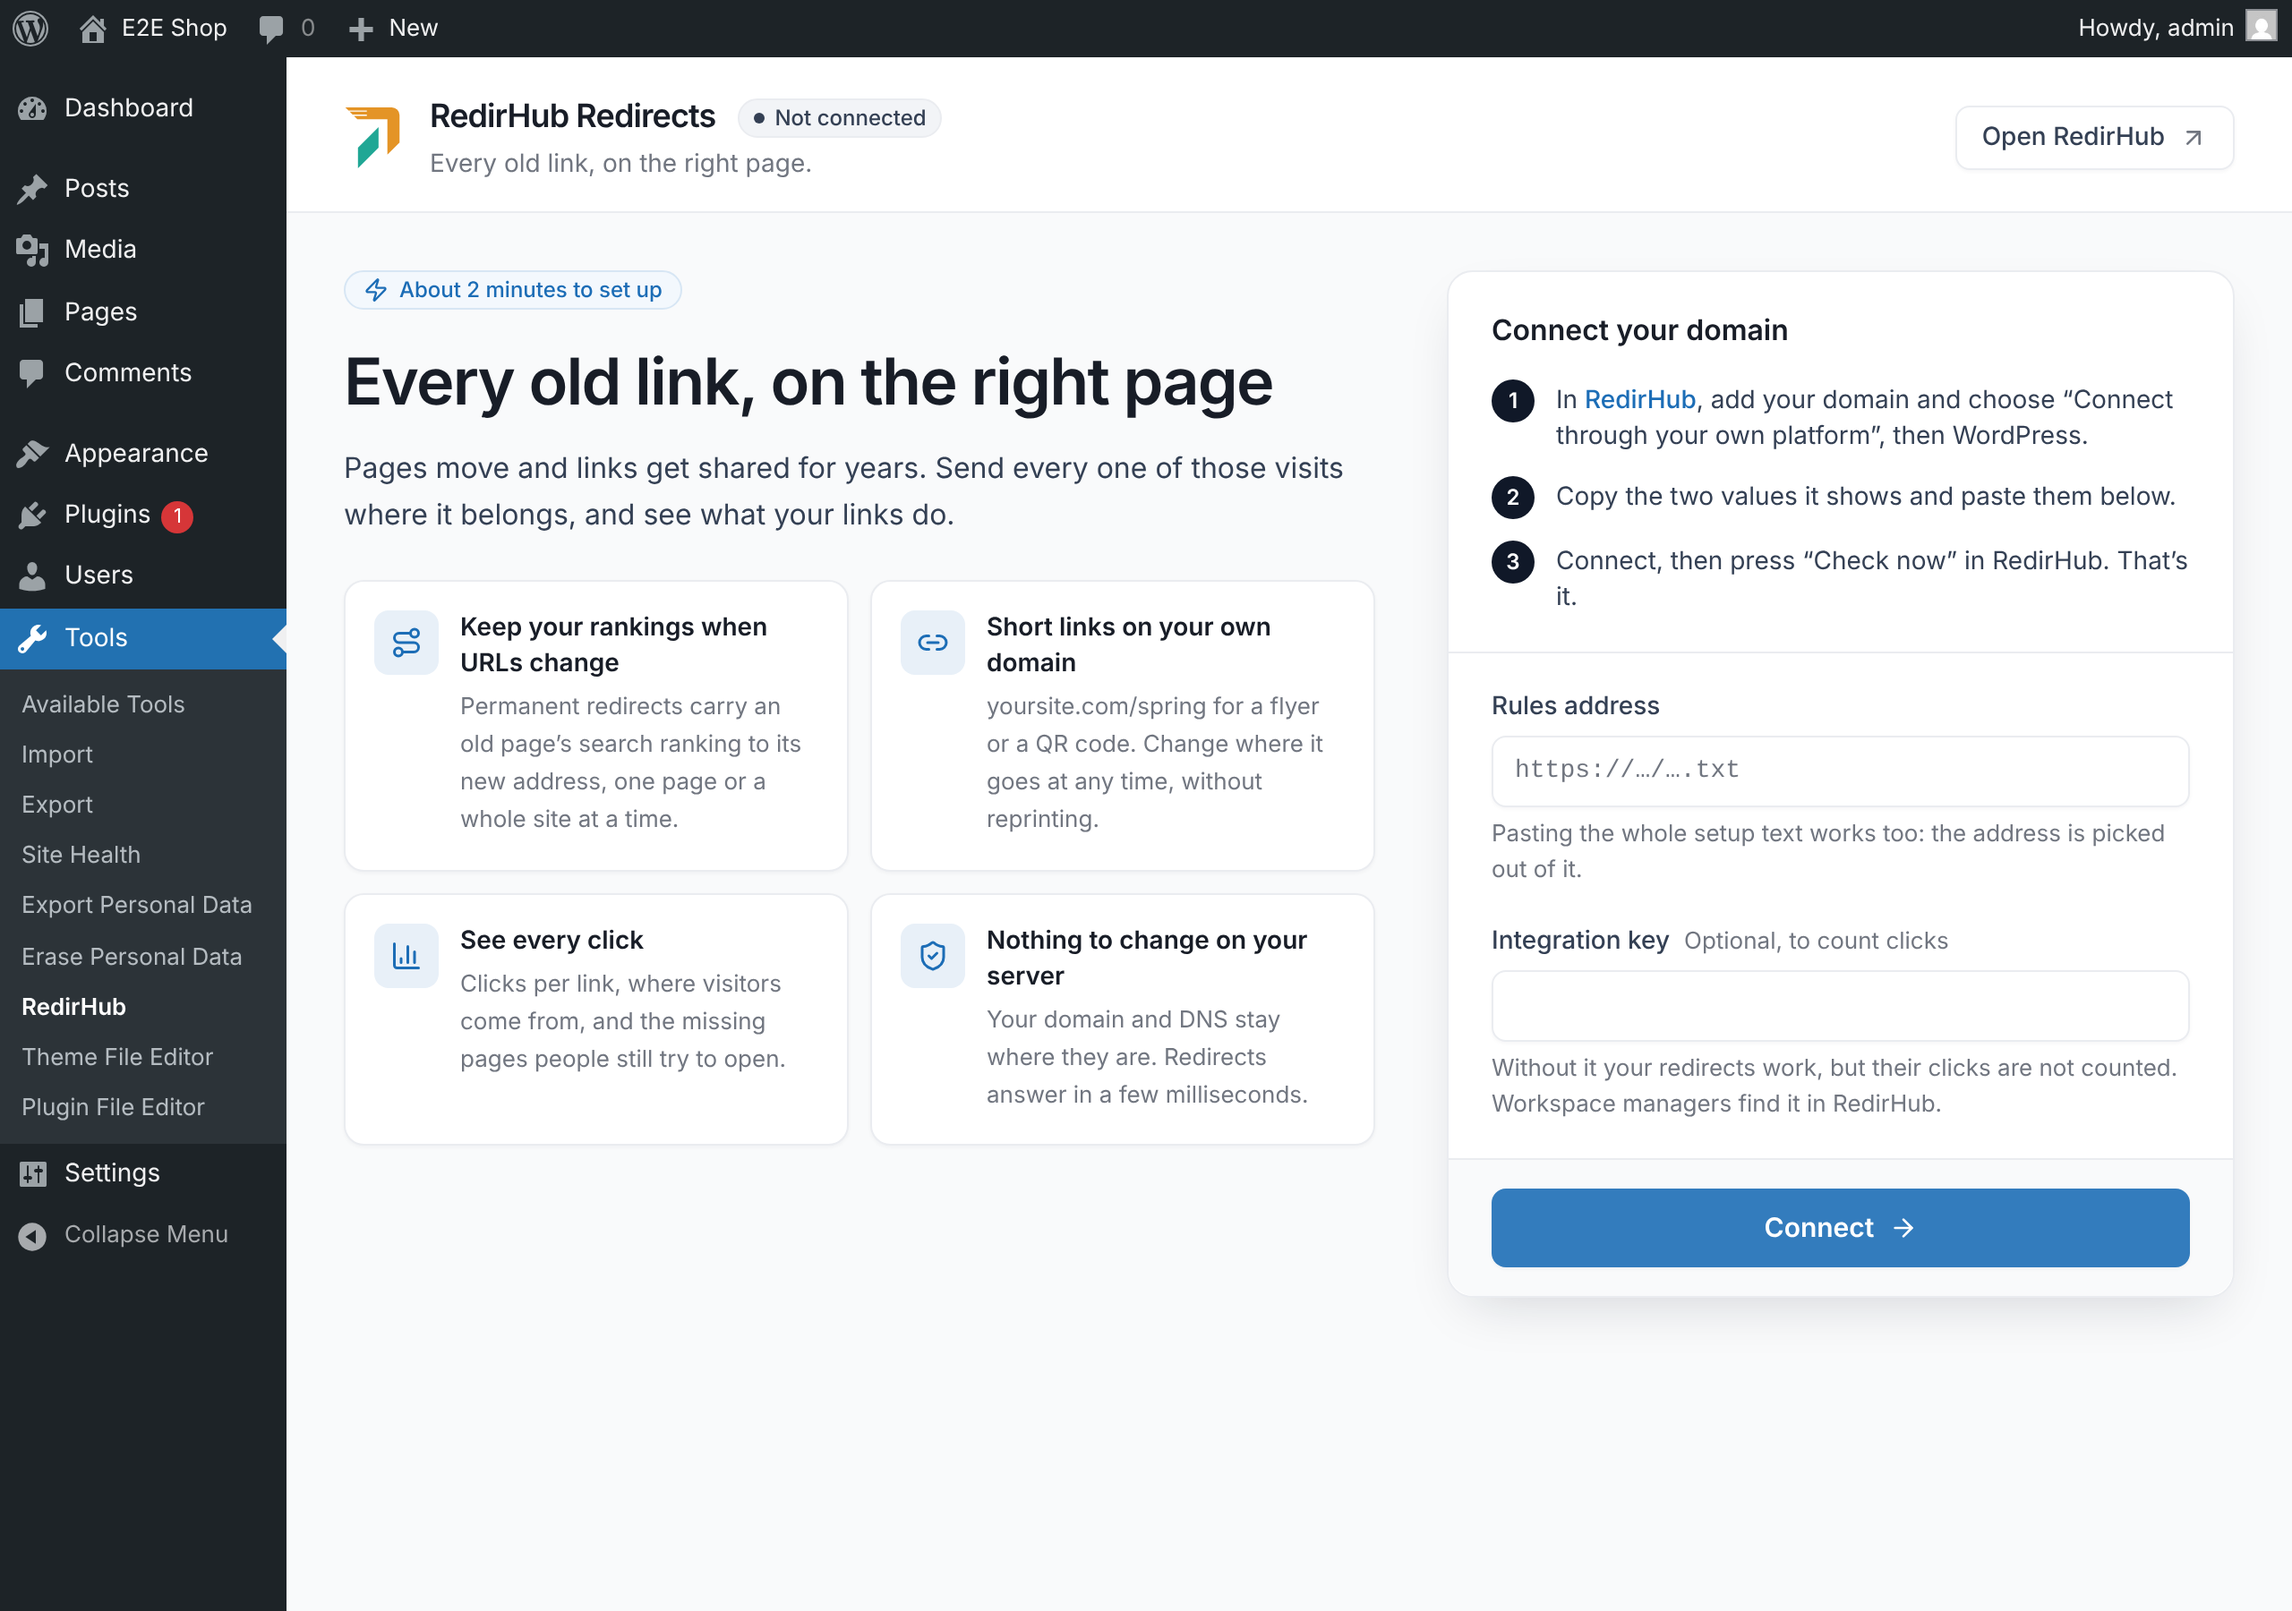
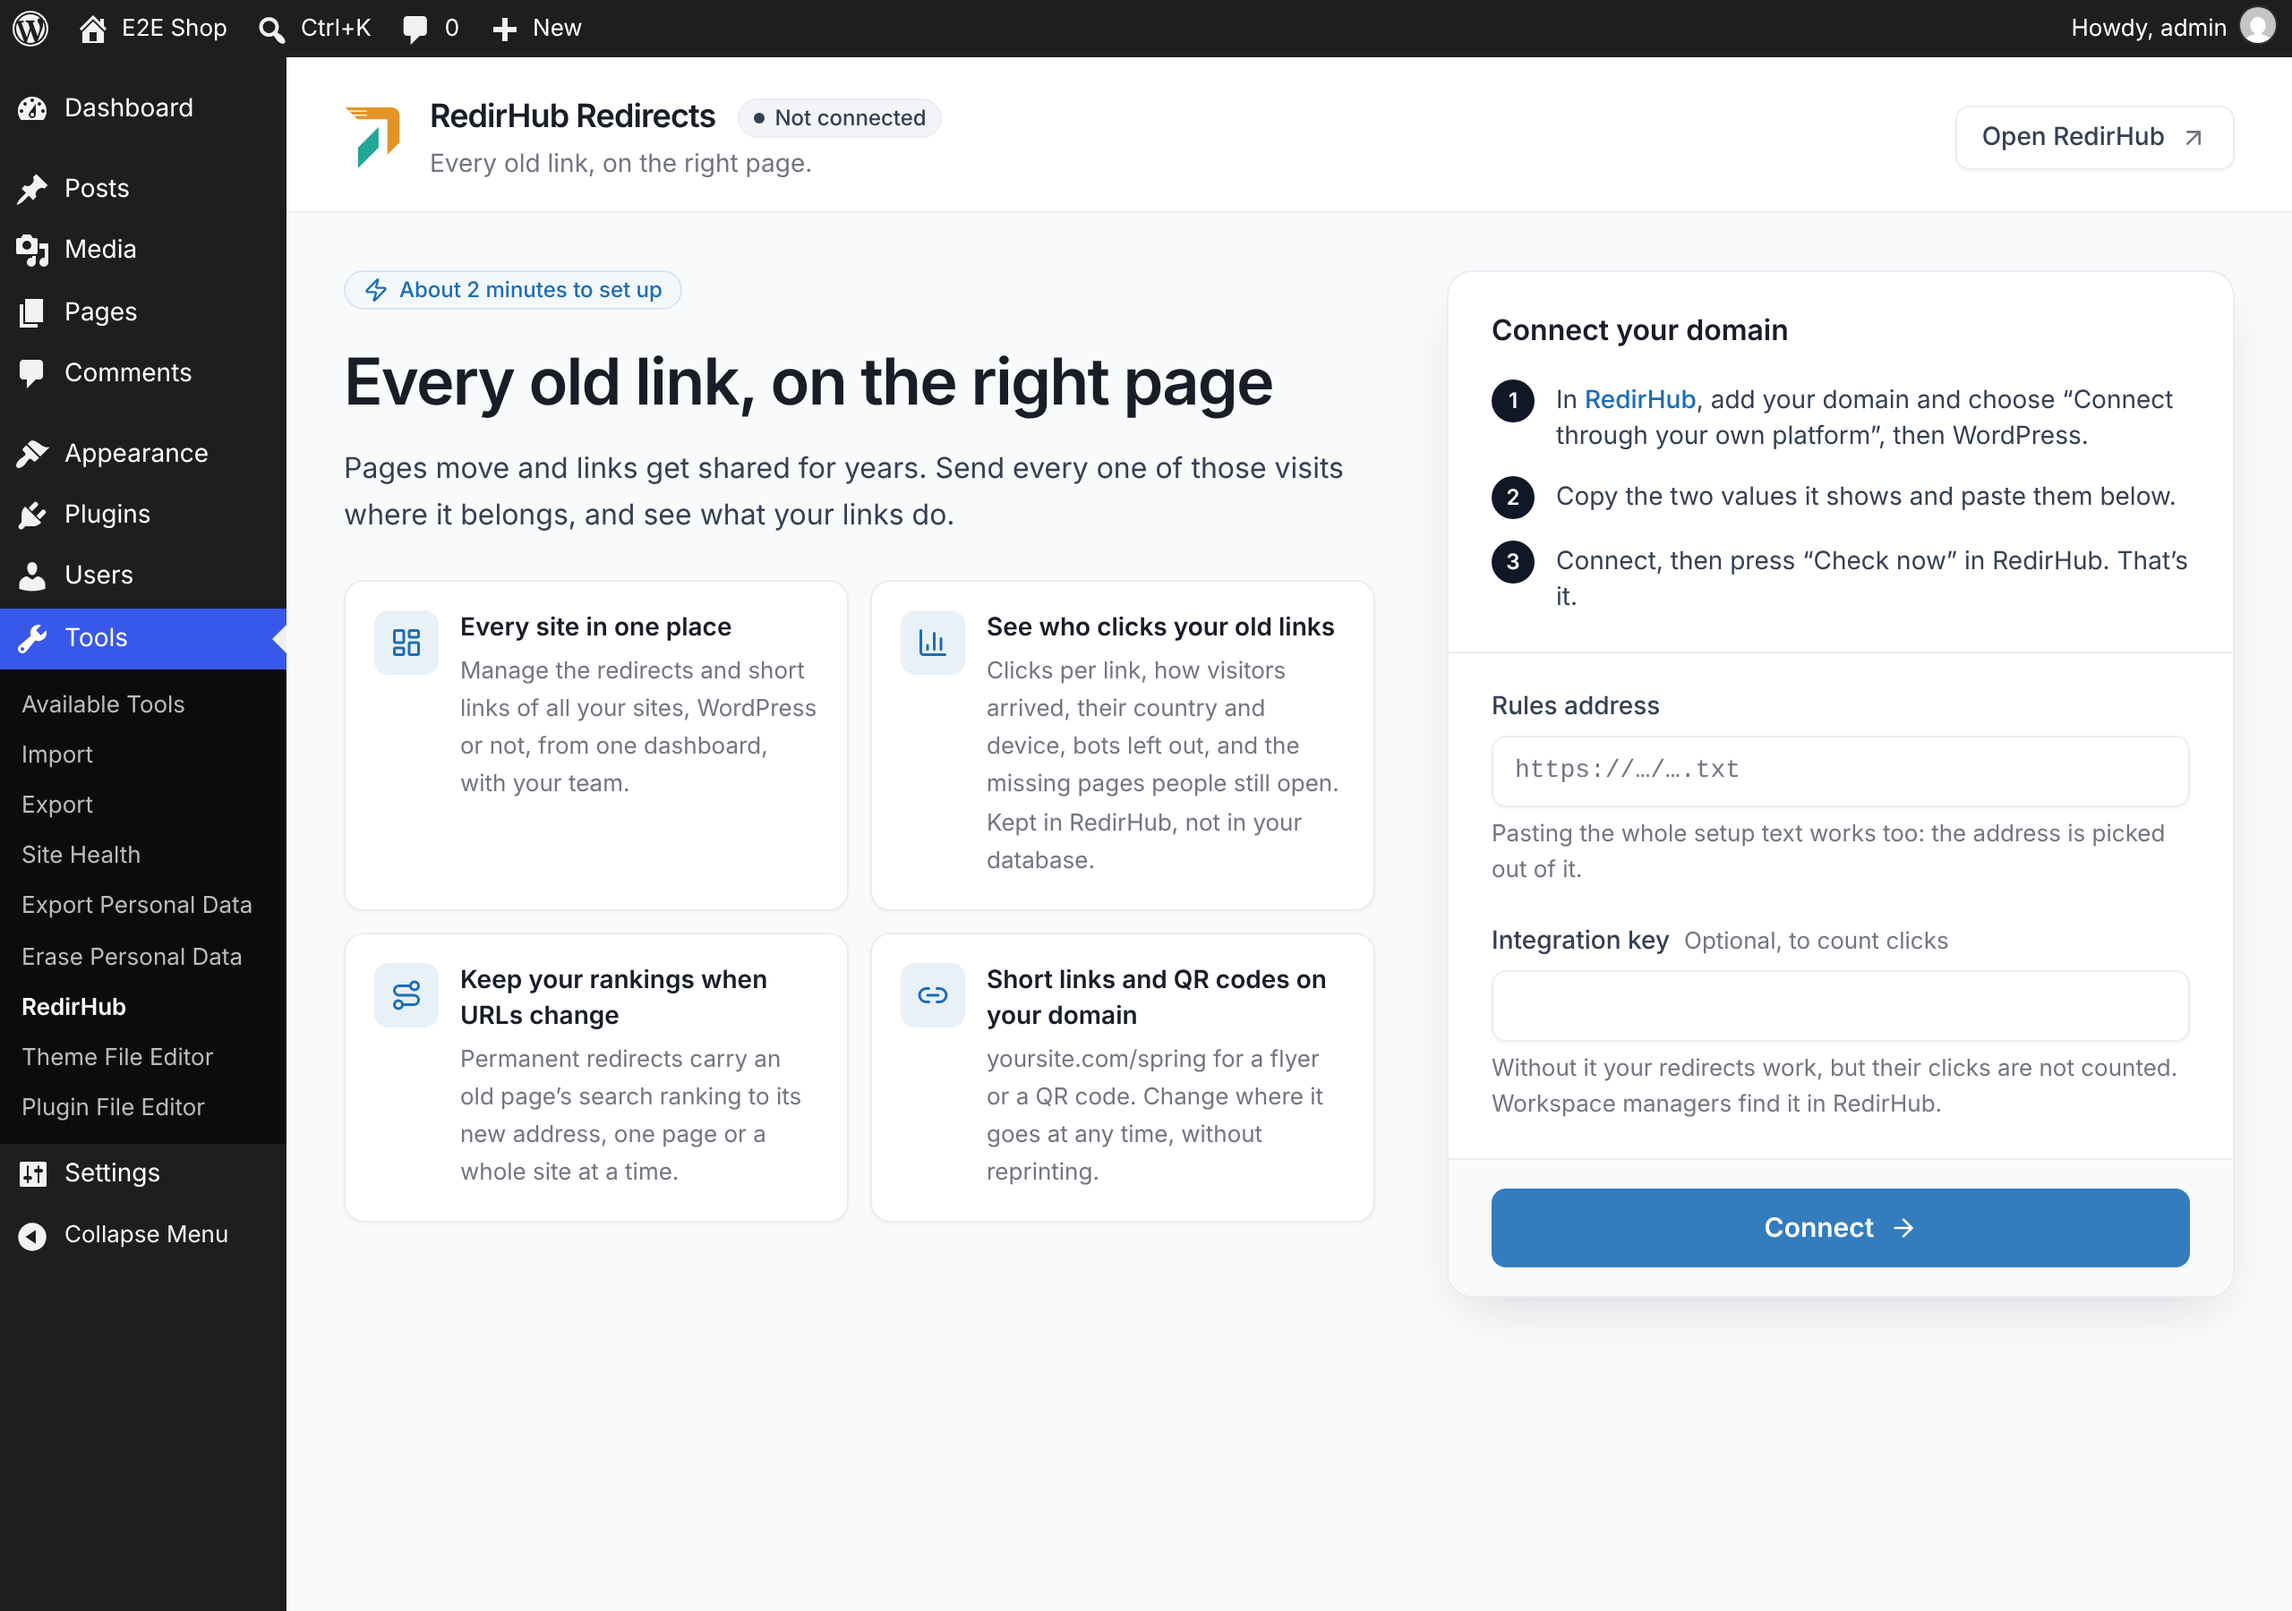
Say what sets RedirHub apart, and that it is a paid service
- readme and the connect page lead with what other redirect plugins don't do: every site in one
  place, analytics (channels, country and city, device, bots left out, comparisons, live, weekly
  email, the 404s still hit) kept out of the WordPress database, and redirects that outlive the
  site; then rankings, short links and QR codes, link options, the import.
- The short description and the plugin header say it in one line.
- How it works says RedirHub is paid: Core starts right away, Pro has a 14-day free trial.
- Listing screenshots and docs/listing-name.patch follow.

Claude-Session: https://claude.ai/code/session_01W9JGBgzcK1YAZTTQb3k2Xe

diff --git a/includes/Admin/View.php b/includes/Admin/View.php
@@ -244,10 +244,10 @@ final class View {
 	 */
 	private static function onboarding( string $rules_url ): void {
 		$benefits = array(
+			array( 'layout-dashboard', __( 'Every site in one place', 'redirhub-redirects' ), __( 'Manage the redirects and short links of all your sites, WordPress or not, from one dashboard, with your team.', 'redirhub-redirects' ) ),
+			array( 'chart-column', __( 'See who clicks your old links', 'redirhub-redirects' ), __( 'Clicks per link, how visitors arrived, their country and device, bots left out, and the missing pages people still open. Kept in RedirHub, not in your database.', 'redirhub-redirects' ) ),
 			array( 'route', __( 'Keep your rankings when URLs change', 'redirhub-redirects' ), __( 'Permanent redirects carry an old page’s search ranking to its new address, one page or a whole site at a time.', 'redirhub-redirects' ) ),
-			array( 'link-2', __( 'Short links on your own domain', 'redirhub-redirects' ), __( 'yoursite.com/spring for a flyer or a QR code. Change where it goes at any time, without reprinting.', 'redirhub-redirects' ) ),
-			array( 'chart-column', __( 'See every click', 'redirhub-redirects' ), __( 'Clicks per link, where visitors come from, and the missing pages people still try to open.', 'redirhub-redirects' ) ),
-			array( 'shield-check', __( 'Nothing to change on your server', 'redirhub-redirects' ), __( 'Your domain and DNS stay where they are. Redirects answer in a few milliseconds.', 'redirhub-redirects' ) ),
+			array( 'link-2', __( 'Short links and QR codes on your domain', 'redirhub-redirects' ), __( 'yoursite.com/spring for a flyer or a QR code. Change where it goes at any time, without reprinting.', 'redirhub-redirects' ) ),
 		);
 		$steps    = array(
 			sprintf(

diff --git a/redirhub-redirects.php b/redirhub-redirects.php
@@ -2,7 +2,7 @@
 /**
  * Plugin Name:       RedirHub Redirects
  * Plugin URI:        https://github.com/redirhub/wordpress-redirects
- * Description:       Send every old, moved or mistyped link to the right page: keep your search rankings, run short links on your own domain and see every click. No server or DNS changes.
+ * Description:       Redirects and short links for all your sites in one place: keep your search rankings when URLs change and see who clicks every link. No server or DNS changes.
  * Version:           1.0.0
  * Requires at least: 5.9
  * Requires PHP:      7.4
